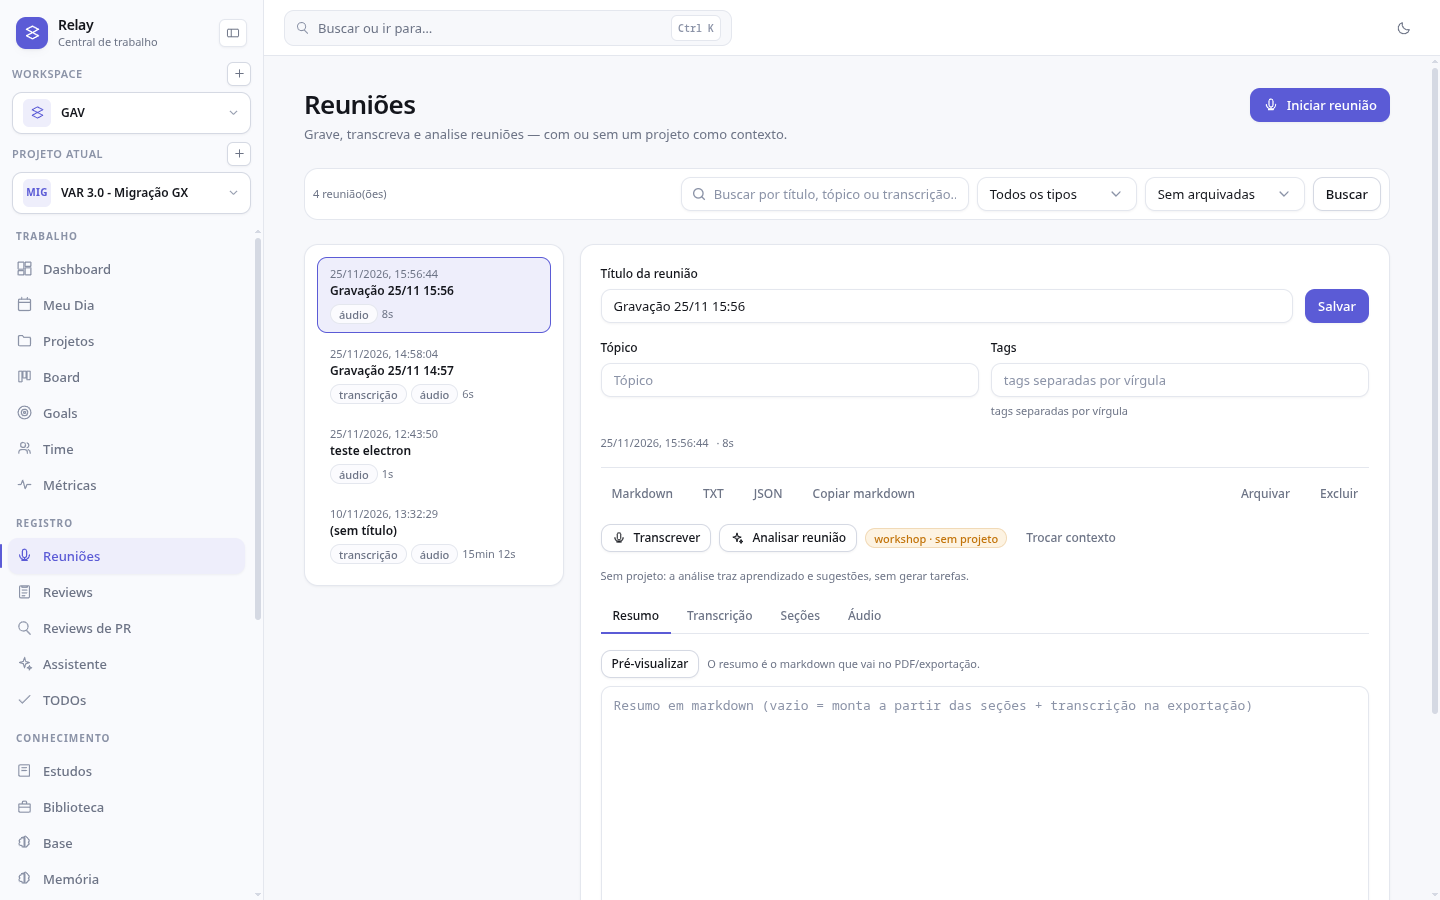
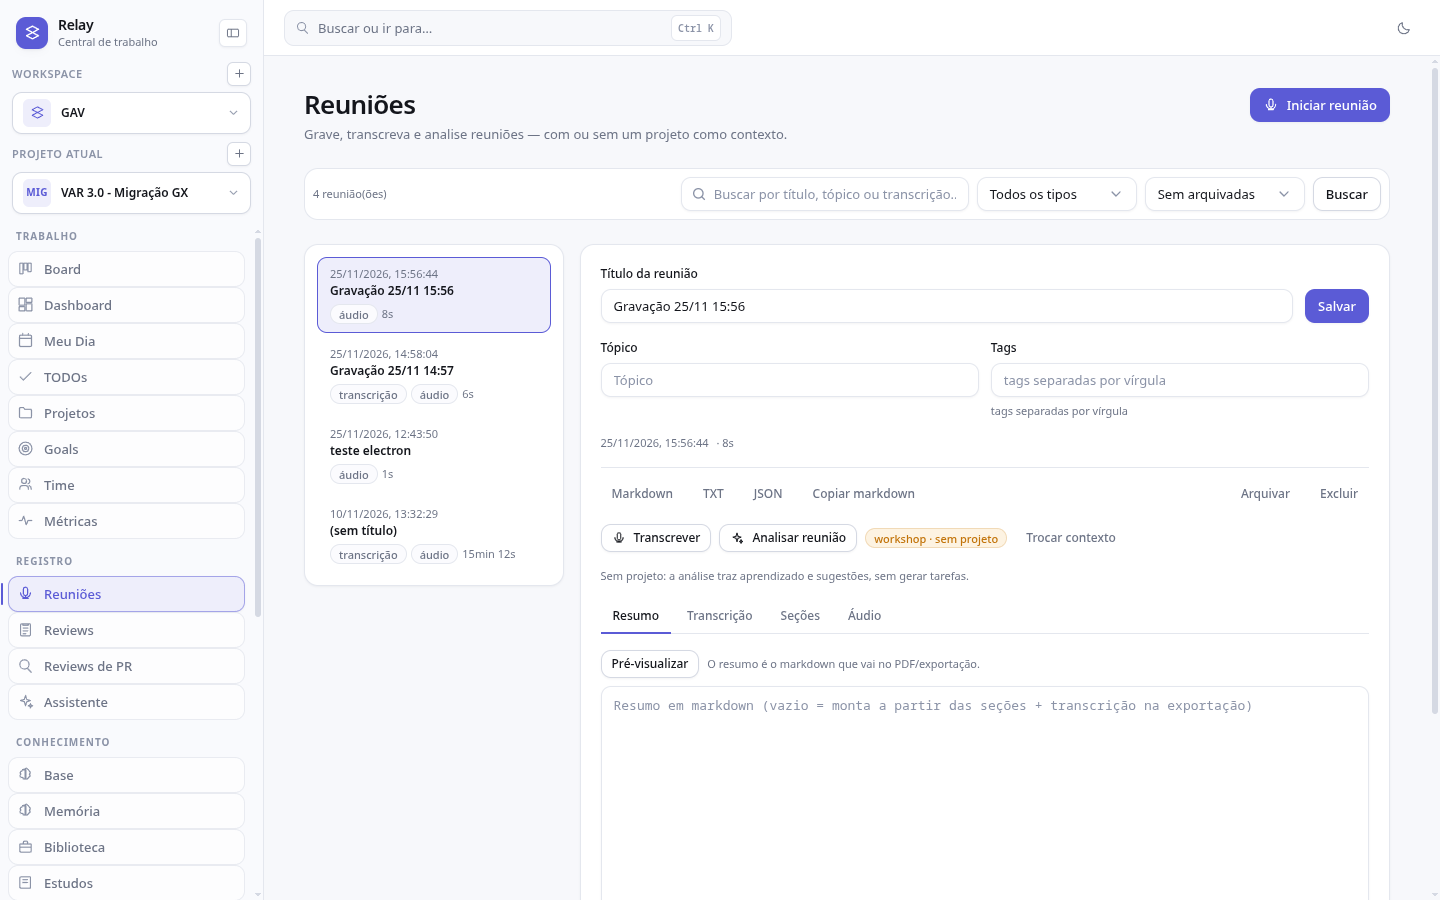
feat(ui): reordenar menu por uso e destacar itens com borda
- Board primeiro, Dashboard segundo; TODOs passa para Trabalho
- grupos: Trabalho, Registro, Conhecimento, Ferramentas e Desktop
- cada item tem borda (hover mais forte e ativo com borda accent)
- busca global (Ctrl+K) segue a mesma ordem
- prints oficiais recapturados

diff --git a/local-client/webui/src/shell/Sidebar.jsx b/local-client/webui/src/shell/Sidebar.jsx
@@ -8,10 +8,11 @@ const GROUPS = [
   {
     label: 'Trabalho',
     items: [
+      ['/board', 'Board', 'board'],
       ['/dashboard', 'Dashboard', 'dashboard'],
       ['/meu-dia', 'Meu Dia', 'calendar'],
+      ['/todos', 'TODOs', 'check'],
       ['/projetos', 'Projetos', 'folder'],
-      ['/board', 'Board', 'board'],
       ['/goals', 'Goals', 'target'],
       ['/time', 'Time', 'users'],
       ['/metricas', 'Métricas', 'activity'],
@@ -24,16 +25,15 @@ const GROUPS = [
       ['/reviews', 'Reviews', 'clipboard'],
       ['/reviews-pr', 'Reviews de PR', 'search'],
       ['/assistente', 'Assistente', 'sparkles'],
-      ['/todos', 'TODOs', 'check'],
     ],
   },
   {
     label: 'Conhecimento',
     items: [
-      ['/estudos', 'Estudos', 'book'],
-      ['/biblioteca', 'Biblioteca', 'briefcase'],
       ['/base', 'Base', 'brain'],
       ['/memoria', 'Memória', 'brain'],
+      ['/biblioteca', 'Biblioteca', 'briefcase'],
+      ['/estudos', 'Estudos', 'book'],
       ['/skills', 'Skills', 'sparkles'],
       ['/guia', 'Guia', 'book'],
       ['/ingles', 'Inglês', 'globe'],
@@ -62,11 +62,11 @@ function NavItem({ to, label, icon, rail, badge, onClick }) {
       title={rail ? label : undefined}
       className={({ isActive }) =>
         [
-          'group relative flex h-9 items-center gap-2.5 rounded-md px-2 text-base font-medium transition',
+          'group relative flex h-9 items-center gap-2.5 rounded-md border px-2 text-base font-medium transition',
           rail ? 'justify-center px-0' : '',
           isActive
-            ? 'bg-accent-soft text-accent shadow-xs'
-            : 'text-fg-muted hover:bg-surface hover:text-fg hover:shadow-xs',
+            ? 'border-accent/50 bg-accent-soft text-accent shadow-xs'
+            : 'border-border/80 bg-surface/60 text-fg-muted hover:border-border-strong hover:bg-surface hover:text-fg hover:shadow-xs',
         ].join(' ')
       }
     >
@@ -128,7 +128,7 @@ export default function Sidebar({ rail, onToggleRail, onNavigate, children }) {
       {/* seletores de workspace/projeto */}
       {!rail && children}
 
-      <nav className="mt-3 flex-1 space-y-0.5 overflow-y-auto px-2 pb-3">
+      <nav className="mt-3 flex-1 space-y-1 overflow-y-auto px-2 pb-3">
         {GROUPS.map((g) => (
           <div key={g.label} className="pt-2 first:pt-0">
             {!rail && (
@@ -160,7 +160,7 @@ export default function Sidebar({ rail, onToggleRail, onNavigate, children }) {
           <a
             href="relay://vault"
             title={t('Cofre KeePass no desktop')}
-            className={`group flex h-9 items-center gap-2.5 rounded-md px-2 text-base font-medium text-fg-muted transition hover:bg-surface hover:text-fg hover:shadow-xs ${rail ? 'justify-center px-0' : ''}`}
+            className={`group flex h-9 items-center gap-2.5 rounded-md border border-border/80 bg-surface/60 px-2 text-base font-medium text-fg-muted transition hover:border-border-strong hover:bg-surface hover:text-fg hover:shadow-xs ${rail ? 'justify-center px-0' : ''}`}
           >
             <span className="text-fg-subtle group-hover:text-fg-muted"><Icon name="lock" size={17} /></span>
             {!rail && (

diff --git a/local-client/webui/src/shell/CommandPalette.jsx b/local-client/webui/src/shell/CommandPalette.jsx
@@ -5,25 +5,31 @@ import { api } from '../api'
 import { t } from '../i18n'
 
 const PAGES = [
+  ['/board', 'Board', 'board'],
   ['/dashboard', 'Dashboard', 'dashboard'],
   ['/meu-dia', 'Meu Dia', 'calendar'],
+  ['/todos', 'TODOs', 'check'],
   ['/projetos', 'Projetos', 'folder'],
-  ['/board', 'Board', 'board'],
   ['/goals', 'Goals', 'target'],
   ['/time', 'Time', 'users'],
+  ['/metricas', 'Métricas', 'activity'],
   ['/reunioes', 'Reuniões', 'mic'],
   ['/reviews', 'Reviews', 'clipboard'],
   ['/reviews-pr', 'Reviews de PR', 'search'],
   ['/assistente', 'Assistente', 'sparkles'],
-  ['/todos', 'TODOs', 'check'],
-  ['/estudos', 'Estudos', 'book'],
-  ['/metricas', 'Métricas', 'activity'],
   ['/base', 'Base de conhecimento', 'brain'],
   ['/memoria', 'Memória', 'brain'],
   ['/biblioteca', 'Biblioteca', 'briefcase'],
+  ['/estudos', 'Estudos', 'book'],
+  ['/skills', 'Skills', 'sparkles'],
+  ['/guia', 'Guia', 'book'],
+  ['/ingles', 'Inglês', 'globe'],
+  ['/traducao', 'Tradução', 'globe'],
   ['/ferramentas', 'Ferramentas', 'briefcase'],
   ['/techlinks', 'TechLinks', 'globe'],
-  ['/skills', 'Skills', 'sparkles'],
+  ['/api-tester', 'API Tester', 'activity'],
+  ['/labels', 'Labels', 'target'],
+  ['/design', 'Design', 'layers'],
   ['/configuracoes', 'Configurações', 'settings'],
 ]
 

diff --git a/docs/prints/README.md b/docs/prints/README.md
@@ -56,7 +56,8 @@ cd local-client && ./run-web.sh   # http://127.0.0.1:9777/
 ## Status (25/11/2026)
 
 Capturados do app Electron empacotado (1440×900, tema claro, projeto MIG) e já
-usados no README: `dashboard.png`, `board.png`, `metricas.png`,
+usados no README — **recapturados em 26/11/2026** após a reordenação do menu
+(Board primeiro, itens com borda): `dashboard.png`, `board.png`, `metricas.png`,
 `reviews-pr.png`, `reunioes.png`.
 
 **Recapturados após a reconstrução da UI** (design system v2: Tailwind v4 +
